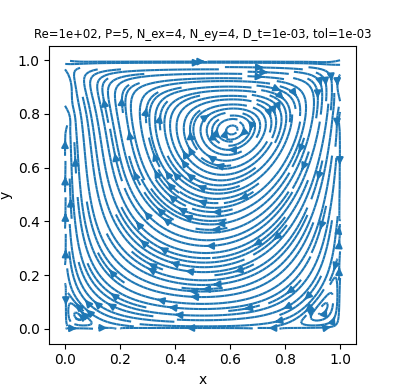
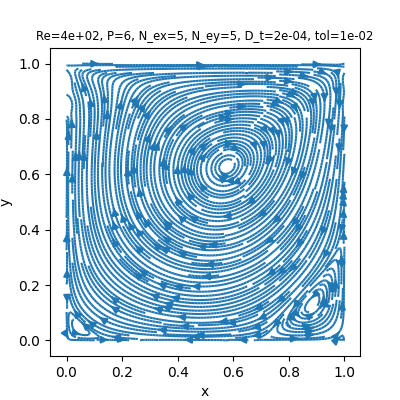
Made global matrices sparse; made assemble vectorized; misc

diff --git a/SEM.py b/SEM.py
@@ -1,12 +1,15 @@
 """
 Continuous GALERKIN spectral element method
 """
+import typing
 import numpy as np
-import scipy.interpolate as sp_interp
 import GLL
+import scipy.interpolate as sp_interp
+import scipy.sparse as sp_sparse
+import sparse  # this package is exclusively used for three dimensional sparse matrices, i.e. the convection matrices
 
 
-def xi2x(e, xi, D_x):
+def xi2x(e: int, xi: float, D_x: float) -> float:
     """
     Returns physical coordinate x from standard coordinate xi in element e\n
     :param e: element number
@@ -42,13 +45,13 @@ def global_nodes_1d(P: int, N_ex: int, D_x: float):
 
 def element_nodes(P: int, N_ex: int, N_ey: int, D_x: float, D_y: float):
     """
-    Returns element nodes\n
+    Returns element nodes array\n
     :param P: polynomial order
     :param N_ex: num of elements in x direction
     :param N_ey: ... in y direction
     :param D_x: element width in x direction
     :param D_y: ... in y direction
-    :return: (xᵐⁿₖₗ[m,n,k,l], yᵐⁿₖₗ[m,n,k,l])
+    :return: [xᵐⁿₖₗ[m,n,k,l], yᵐⁿₖₗ[m,n,k,l]]
     """
     x_e1d = element_nodes_1d(P, N_ex, D_x)
     y_e1d = element_nodes_1d(P, N_ey, D_y)
@@ -61,20 +64,20 @@ def element_nodes(P: int, N_ex: int, N_ey: int, D_x: float, D_y: float):
 
 def global_nodes(P: int, N_ex: int, N_ey: int, D_x: float, D_y: float):
     """
-    Returns global nodes vector\n
+    Returns global nodes vectors\n
     :param P: polynomial order
     :param N_ex: num of elements in x direction
     :param N_ey: ... in y direction
     :param D_x: element width in x direction
     :param D_y: ... in y direction
-    :return: (xₚ[p], yₚ[p])
+    :return: [xₚ[p], yₚ[p]]
     """
     x_1d = global_nodes_1d(P, N_ex, D_x)
     y_1d = global_nodes_1d(P, N_ey, D_y)
     return np.reshape(np.array(np.meshgrid(x_1d, y_1d, indexing='ij')), (2, x_1d.size*y_1d.size))
 
 
-def assemble(A_e: np.ndarray):  # TODO sparse and parallel implementation urgently needed
+def assemble(A_e: np.ndarray):  # TODO parallel implementation possible
     """
     Returns global matrix/vector from element array\n
     :param A_e: element array Aᵐⁿᵢⱼᵣₛₖₗ[m,n,i,j,r,s,k,l] or Aᵐⁿᵢⱼₖₗ[m,n,i,j,k,l] or Aᵐⁿᵢⱼ[m,n,i,j]
@@ -86,33 +89,18 @@ def assemble(A_e: np.ndarray):  # TODO sparse and parallel implementation urgent
     def p(m, n, i, j):
         return n*P+j + (N_ey*P+1) * (m*P+i)
 
-    if A_e.ndim == 4:
-        A = np.zeros((P*N_ex+1)*(P*N_ey+1))
-        for m in range(N_ex):
-            for n in range(N_ey):
-                for i in range(P+1):
-                    for j in range(P+1):
-                        A[p(m, n, i, j)] += A_e[m, n, i, j]
+    # if A_e.ndim == 4: TODO one-part element array
     if A_e.ndim == 6:
-        A = np.zeros(((P*N_ex+1)*(P*N_ey+1),)*2)
-        for m in range(N_ex):
-            for n in range(N_ey):
-                for i in range(P+1):
-                    for j in range(P+1):
-                        for k in range(P+1):
-                            for l in range(P+1):
-                                A[p(m, n, i, j), p(m, n, k, l)] += A_e[m, n, i, j, k, l]
+        (m, n, i, j, k, l) = np.nonzero(A_e)
+        coords = np.vstack((p(m, n, i, j), p(m, n, k, l)))
+        data = A_e[m, n, i, j, k, l]
+        A = sp_sparse.coo_matrix((data, coords), shape=((P*N_ex+1)*(P*N_ey+1),)*2)
+        A = A.tocsr()
     if A_e.ndim == 8:
-        A = np.zeros(((P*N_ex+1)*(P*N_ey+1),)*3)
-        for m in range(N_ex):
-            for n in range(N_ey):
-                for i in range(P+1):
-                    for j in range(P+1):
-                        for r in range(P+1):
-                            for s in range(P+1):
-                                for k in range(P+1):
-                                    for l in range(P+1):
-                                        A[p(m, n, i, j), p(m, n, r, s), p(m, n, k, l)] += A_e[m, n, i, j, r, s, k, l]
+        (m, n, i, j, r, s, k, l) = np.nonzero(A_e)
+        coords = np.vstack((p(m, n, i, j), p(m, n, r, s), p(m, n, k, l)))
+        data = A_e[m, n, i, j, r, s, k, l]
+        A = sparse.COO(coords, data, shape=((P*N_ex+1)*(P*N_ey+1),)*3)
     return A
 
 
@@ -166,9 +154,9 @@ def element_stiffness_matrix_1d(P: int, N_ex: int, D_x: float):
     return np.einsum('m,ik->mik', 2/D_x*np.ones(N_ex), D_s.transpose() @ M_s @ D_s)
 
 
-def global_mass_matrix(P: int, N_ex: int, N_ey: int, D_x: float, D_y: float):
+def global_mass_matrix(P: int, N_ex: int, N_ey: int, D_x: float, D_y: float) -> sp_sparse.csr_matrix:
     """
-    Returns global mass matrix\n
+    Returns global mass matrix in scipy-CSR format\n
     :param P: polynomial order
     :param N_ex: num of elements in x direction
     :param N_ey: ... in y direction
@@ -180,9 +168,9 @@ def global_mass_matrix(P: int, N_ex: int, N_ey: int, D_x: float, D_y: float):
     return assemble(np.einsum('mik,njl->mnijkl', M_ex, M_ey, optimize=True))
 
 
-def global_stiffness_matrix(P: int, N_ex: int, N_ey: int, D_x: float, D_y: float):
+def global_stiffness_matrix(P: int, N_ex: int, N_ey: int, D_x: float, D_y: float) -> sp_sparse.csr_matrix:
     """
-    Returns global stiffness matrix\n
+    Returns global stiffness matrix in scipy-CSR format\n
     :param P: polynomial order
     :param N_ex: num of elements in x direction
     :param N_ey: ... in y direction
@@ -197,9 +185,10 @@ def global_stiffness_matrix(P: int, N_ex: int, N_ey: int, D_x: float, D_y: float
                   + np.einsum('mik,njl->mnijkl', M_ex, K_ey, optimize=True))
 
 
-def global_gradient_matrices(P: int, N_ex: int, N_ey: int, D_x: float, D_y: float):
+def global_gradient_matrices(P: int, N_ex: int, N_ey: int, D_x: float, D_y: float) \
+        -> typing.Tuple[sp_sparse.csr_matrix, sp_sparse.csr_matrix]:
     """
-    Returns global gradient matrices\n
+    Returns global gradient matrices in scipy-CSR format\n
     :param P: polynomial order
     :param N_ex: num of elements in x direction
     :param N_ey: ... in y direction
@@ -214,9 +203,12 @@ def global_gradient_matrices(P: int, N_ex: int, N_ey: int, D_x: float, D_y: floa
            assemble(np.einsum('mik,n,jl->mnijkl', M_ex, np.ones(N_ex), G_s, optimize=True))
 
 
-def global_convection_matrices(P: int, N_ex: int, N_ey: int, D_x: float, D_y: float):
+def global_convection_matrices(P: int, N_ex: int, N_ey: int, D_x: float, D_y: float) \
+        -> typing.Tuple[sparse.COO, sparse.COO]:
     """
-    Returns global gradient matrices\n
+    Returns global gradient matrices in sparse-COO format\n
+    To return (C_x @ u) in scipy-CSR format perform 'sparse.tensordot(C_x,u,(2,0),return_type=sparse.COO).tocsr()'\n
+    To return (u @ C_x) in scipy-CSR format perform 'sparse.tensordot(C_x,u,(1,0),return_type=sparse.COO).tocsr()'\n
     :param P: polynomial order
     :param N_ex: num of elements in x direction
     :param N_ey: ... in y direction
@@ -231,12 +223,13 @@ def global_convection_matrices(P: int, N_ex: int, N_ey: int, D_x: float, D_y: fl
            assemble(np.einsum('rk,nik,m,jsl->mnijrskl', np.identity(P+1), M_ex, np.ones(N_ex), C_s, optimize=True))
 
 
-def eval_interpolation(u_e: np.ndarray, points_e: np.ndarray, points_plot):
+def eval_interpolation(u_e: np.ndarray, points_e: np.ndarray, points_plot: typing.Tuple[np.ndarray, np.ndarray]):
     """
     Returns the evaluation of u in the points points_plot\n
     :param u_e: element coefficients array uᵐⁿₖₗ[m,n,i,j]
-    :param points_e: element nodes (xᵐⁿₖₗ[m,n,k,l],yᵐⁿₖₗ[m,n,k,l])
+    :param points_e: element nodes array [xᵐⁿₖₗ[m,n,k,l],yᵐⁿₖₗ[m,n,k,l]]
     :param points_plot: evaluation points (xᵢⱼ[i,j],yᵢⱼ[i,j])
+    :return: u(xᵢⱼ,yᵢⱼ)[i,j]
     """
     N_ex = u_e.shape[0]
     N_ey = u_e.shape[1]

diff --git a/Example_NavierStokes.py b/Example_NavierStokes.py
@@ -1,4 +1,7 @@
 import numpy as np
+import scipy.sparse.linalg as sp_sparse_linalg
+import scipy.sparse as sp_sparse
+import sparse  # this package is exclusively used for three dimensional sparse matrices, i.e. the convection matrices
 import SEM
 import matplotlib.pyplot as plt
 
@@ -19,12 +22,12 @@ Possible reference solutions from GHIA (doi.org/10.1016/0021-9991(82)90058-4).
 # setup
 L_x = 1     # length in x direction
 L_y = 1     # length in y direction
-Re = 1e2    # REYNOLDS number
-P = 5       # polynomial order
-N_ex = 4    # num of elements in x direction
-N_ey = 4    # num of elements in y direction
-D_t = 1e-3  # step size in time
-tol = 1e-3  # tolerance for stationarity such that max(‖Δu‖∞,‖Δv‖∞) < tol
+Re = 4e2    # REYNOLDS number
+P = 6       # polynomial order
+N_ex = 5    # num of elements in x direction
+N_ey = 5    # num of elements in y direction
+D_t = 2e-4  # step size in time
+tol = 1e-2  # tolerance for stationarity such that max(‖Δu‖∞,‖Δv‖∞) < tol
 v_W = 0     # tangential velocity at x=0
 v_E = 0     # tangential velocity at x=L_x
 u_S = 0     # tangential velocity at y=0
@@ -37,13 +40,13 @@ points = SEM.global_nodes(P, N_ex, N_ey, D_x, D_y)
 points_e = SEM.element_nodes(P, N_ex, N_ey, D_x, D_y)
 
 # matrices
+M = SEM.global_mass_matrix(P, N_ex, N_ey, D_x, D_y)
+M_inv = sp_sparse.diags(1/M.diagonal()).tocsr()
+K = SEM.global_stiffness_matrix(P, N_ex, N_ey, D_x, D_y)
 G_x, G_y = SEM.global_gradient_matrices(P, N_ex, N_ey, D_x, D_y)
 C_x, C_y = SEM.global_convection_matrices(P, N_ex, N_ey, D_x, D_y)
-M = SEM.global_mass_matrix(P, N_ex, N_ey, D_x, D_y)
-M_inv = np.diag(1/np.diag(M))
-K = SEM.global_stiffness_matrix(P, N_ex, N_ey, D_x, D_y)
 
-# dirichlet condition vectors
+# DIRICHLET condition vectors
 dirichlet_u = np.full(points.shape[1], np.nan)
 dirichlet_v = np.full(points.shape[1], np.nan)
 dirichlet_phi = np.full(points.shape[1], np.nan)
@@ -55,7 +58,7 @@ dirichlet_v[np.isclose(points[0], 0)] = v_W
 dirichlet_v[np.isclose(points[0], L_x)] = v_E
 dirichlet_v[np.isclose(points[1], 0)] = 0
 dirichlet_v[np.isclose(points[1], L_y)] = 0
-dirichlet_phi[0] = 0  # reference pseudo pressure at south-east corner
+# dirichlet_phi[0] = 0  # reference pseudo pressure at south-east corner; required if a direct solver would be used
 
 # initial condition
 u = np.zeros(points.shape[1])
@@ -72,7 +75,9 @@ def solve_with_dirichlet(A, b, dirichlet):
     b -= A[:, ind_dirichlet] @ dirichlet[ind_dirichlet]  # bring columns on RHS
     b = b[~ind_dirichlet]  # skip rows
     A = A[~ind_dirichlet, :][:, ~ind_dirichlet]  # skip rows/cols
-    x[~ind_dirichlet] = np.linalg.solve(A, b)  # solve on free indices
+    x[~ind_dirichlet], info = sp_sparse_linalg.gmres(A, b, tol=1e-4)  # solve on free indices
+    if info != 0:
+        raise RuntimeError('GMRES failed to converge')
     return x
 
 
@@ -81,7 +86,8 @@ n = 0
 while res > tol:
     n += 1
     # pressure-correction method; Convection term OSEEN like
-    Conv = Re * (u @ C_x + v @ C_y)
+    Conv = Re * (sparse.tensordot(C_x, u, (1, 0), return_type=sparse.COO).tocsr()
+               + sparse.tensordot(C_y, v, (1, 0), return_type=sparse.COO).tocsr())  # i.e. = Re*(u @ C_x + v @ C_y)
     u_pre = solve_with_dirichlet(1/D_t*M + 0.5*Conv + 0.5*K, (1/D_t*M - 0.5*Conv - 0.5*K) @ u, dirichlet_u)
     v_pre = solve_with_dirichlet(1/D_t*M + 0.5*Conv + 0.5*K, (1/D_t*M - 0.5*Conv - 0.5*K) @ v, dirichlet_v)
     phi = solve_with_dirichlet(K, -1/D_t * (G_x @ u_pre + G_y @ v_pre), dirichlet_phi)
@@ -97,12 +103,12 @@ u_e = SEM.scatter(u, P, N_ex, N_ey)
 v_e = SEM.scatter(v, P, N_ex, N_ey)
 
 # plot
-x_plot, y_plot = np.meshgrid(np.linspace(0, L_x, 51), np.linspace(0, L_y, 51), indexing='ij')
+x_plot, y_plot = np.meshgrid(np.linspace(0, L_x, 101), np.linspace(0, L_y, 101), indexing='ij')
 u_plot = SEM.eval_interpolation(u_e, points_e, (x_plot, y_plot))
 v_plot = SEM.eval_interpolation(v_e, points_e, (x_plot, y_plot))
 fig = plt.figure(figsize=(L_x*4, L_y*4))
 ax = fig.gca()
-ax.streamplot(x_plot.T, y_plot.T, u_plot.T, v_plot.T, density=2)
+ax.streamplot(x_plot.T, y_plot.T, u_plot.T, v_plot.T, density=3)
 ax.set_title(f"Re={Re:.0e}, P={P}, N_ex={N_ex}, N_ey={N_ey}, D_t={D_t:.0e}, tol={tol:.0e}", fontsize='small')
 ax.set_xlabel('x')
 ax.set_ylabel('y')

diff --git a/Example_Helmholtz.py b/Example_Helmholtz.py
@@ -1,4 +1,5 @@
 import numpy as np
+import scipy.sparse.linalg as sp_sparse_linalg
 import SEM
 import matplotlib.pyplot as plt
 
@@ -16,9 +17,9 @@ u(x,L_y) = u_N(x) ∀x∈[0,L_x]
 L_x = 2     # length in x direction
 L_y = 1     # length in y direction
 lam = 1     # HELMHOLTZ parameter
-P = 3       # polynomial order
-N_ex = 1    # num of elements in x direction
-N_ey = 2    # num of elements in y direction
+P = 4       # polynomial order
+N_ex = 2    # num of elements in x direction
+N_ey = 3    # num of elements in y direction
 exact = lambda x,y: np.sin(x/L_x*np.pi)*np.sin(y/L_y*2*np.pi) + x/L_x + y/L_y  # exact solution
 f = lambda x,y: exact(x, y)*lam + ((np.pi/L_x)**2+(2*np.pi/L_y)**2)*np.sin(x/L_x*np.pi)*np.sin(y/L_y*2*np.pi)  # f(x,y)
 u_W = lambda y: y/L_y      # DIRICHLET boundary condition at x=0
@@ -55,7 +56,9 @@ u[ind_dirichlet] = dirichlet[ind_dirichlet]  # set known solution
 g -= H[:, ind_dirichlet] @ dirichlet[ind_dirichlet]  # bring columns on RHS
 g = g[~ind_dirichlet]  # skip rows
 H = H[~ind_dirichlet, :][:, ~ind_dirichlet]  # skip rows/cols
-u[~ind_dirichlet] = np.linalg.solve(H, g)  # solve on free indices
+u[~ind_dirichlet], info = sp_sparse_linalg.cg(H, g)  # solve on free indices
+if info != 0:
+    raise RuntimeError('CG failed to converge')
 
 # scatter for plot
 u_e = SEM.scatter(u, P, N_ex, N_ey)
